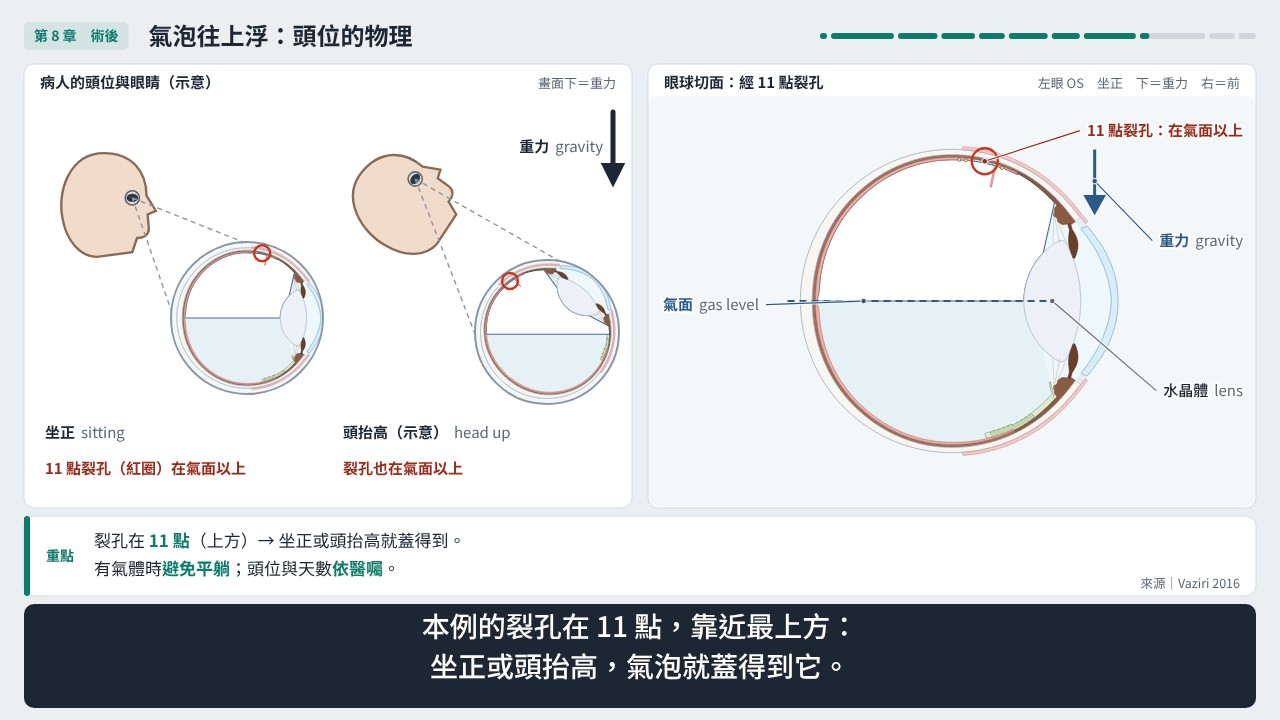
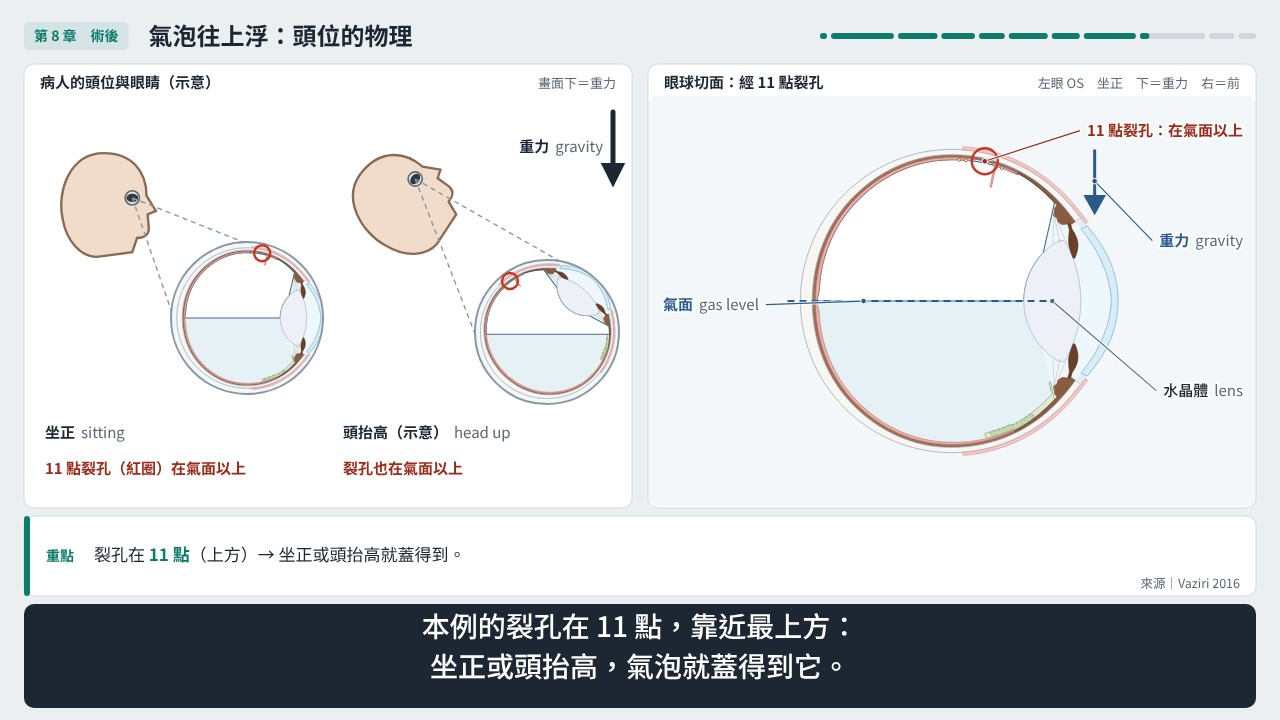
重點框的數字不再比出處早出現：第 8 章重點逐句長出來，前幾章補來源，加檢查
第 8 章有五處重點框比來源欄早一句出現，數字旁邊寫的是另一篇論文；8-1、8-3、8-4 的重點改成跟著旁白逐句長出來。8-1「頭位與天數沒有共識」原本掛 Casswell 2020（PostRD 只比 24 小時），改成 Agarwalla 2024；Liang 2023 兩個 RCT，REFS 加這兩篇。8-2 第 1 句的重點框原本是空的，補上本例的黃斑狀態；8-4 的 72.9% 改寫成「再剝離的病例裡兩個月內被診斷」，避免讀成再剝離率。數字帳本加一條：旁白的數字和出處同一句出現，重點框的數字出處不晚於重點（2 個故意改錯）；它也抓到 1-3、2-1、5-1、7-2 同樣的錯置，一起補來源。更新 2-1、8-1 兩張參考圖；文字基準下一個 commit 改。

Changed region(s): [[0.0625, 0.7333, 0.375, 0.825]]

diff --git a/videos/src/rrd-ppv-c3f8/anim/segments.js b/videos/src/rrd-ppv-c3f8/anim/segments.js
@@ -50,7 +50,7 @@ const SEGS = [
   keys: [[1, '等刀時 fovea 掉下來：<b>1.1%</b>（930 例）；平均等 1.8 天，<b>19.8%</b> 剝離變大。'],
          [3, '最危險：<b>superotemporal、bullous、接近血管弓</b>。'],
          [4, '<b>24 小時內</b>開刀，最後視力略好（證據品質低）。']],
-  src: [[1, 'Kontos 2017b'], [2, 'Callizo 2017'], [3, 'Kontos 2017b；Callizo 2017'], [4, 'Sothivannan 2022']] },
+  src: [[1, 'Kontos 2017b；Callizo 2017'], [2, 'Callizo 2017'], [3, 'Kontos 2017b；Callizo 2017'], [4, 'Sothivannan 2022']] },
 { id: '1-4', ch: 1, title: 'PVR grade B 與本例的術式', layout: 'dual',
   lines: ['PVR grade B 是中度：視網膜表面起皺、\n裂孔邊緣捲起、視網膜變硬、血管扭曲。',
           '術前 PVR 越嚴重、剝離範圍越大，\n手術越容易失敗。',
@@ -74,7 +74,7 @@ const SEGS = [
   keys: [[0, 'Trocar 在 <b>pars plana</b>：距角膜緣 <b>3 到 4 mm</b>（依水晶體狀態）；有水晶體的眼研究用 <b>4 mm</b>。'],
          [2, '華人 ora：顳側 <b>7.6</b>、鼻側 <b>7.0 mm</b> → 4 mm 在 ora 前面。'],
          [4, '先推開結膜、<b>斜插</b> → 像瓣膜的隧道，拔掉後比較不漏。']],
-  src: [[0, 'EyeWiki 2026a'], [1, 'Duker 2021'], [2, 'Li 2025'], [4, 'Warrier 2008'], [5, 'Singh 2008']] },
+  src: [[0, 'EyeWiki 2026a；Duker 2021'], [1, 'Duker 2021'], [2, 'Li 2025'], [3, 'Li 2025；Duker 2021'], [4, 'Warrier 2008'], [5, 'Singh 2008']] },
 { id: '2-2', ch: 2, title: 'Infusion：開之前先看尖端', layout: 'dual',
   lines: ['Infusion 一打開，水就從套管尖端流出；\n尖端在哪一層，水就灌進哪一層。',
           '套管常見放在 inferotemporal，器械從 superotemporal\n和 superonasal 進來；位置依主刀決定。',
@@ -142,7 +142,7 @@ const SEGS = [
   keys: [[0, '兩個原則：<b>處理所有裂孔</b>、<b>解除玻璃體拉力</b>。'],
          [1, 'Vitreous base 跨在 ora 上；裂孔多在它的<b>後緣</b>。\nHST 的瓣被玻璃體往前拉：106 個裂孔<b>前緣全有牽拉</b>。'],
          [4, '有水晶體：碰到水晶體 <b>1.2 到 1.6%</b>。']],
-  src: [[0, 'Schwartz 2008'], [1, 'Sohn 2020'], [2, 'Govetto 2024'], [3, 'Chandrakanth 2025'], [4, 'Jackson 2013']] },
+  src: [[0, 'Schwartz 2008'], [1, 'Sohn 2020；Govetto 2024'], [2, 'Govetto 2024'], [3, 'Chandrakanth 2025'], [4, 'Jackson 2013']] },
 { id: '5-2', ch: 5, title: '助手壓鞏膜', layout: 'dual',
   lines: ['有水晶體的眼，廣角系統加上助手從外面壓鞏膜，\n可能有幫助。',
           '清周邊時，常由受過訓練的助手用手壓鞏膜；\n也有主刀用 chandelier 照明自己壓。',
@@ -197,7 +197,7 @@ const SEGS = [
   keys: [[0, '純 C3F8：膨脹約 <b>4 倍</b>、3 到 4 天最大 → 混成不膨脹濃度，常用 <b>14%</b>（12 到 16%）。'],
          [2, '50 mL 針筒：抽純氣 → 排到需要的量 → 無菌空氣補到 50 mL。\n錯誤：算錯量、換供應商、從高壓鋼瓶直接抽。'],
          [5, 'C3F8 的量<b>依院內常規</b>；備好<b>和主刀確認</b>。']],
-  src: [[0, 'Vaziri 2016'], [1, 'Vaziri 2016；Brosh 2014；Foulsham 2021'], [2, 'Kanclerz 2018b'], [5, '院內常規']] },
+  src: [[0, 'Vaziri 2016；Brosh 2014；Foulsham 2021'], [1, 'Vaziri 2016；Brosh 2014；Foulsham 2021'], [2, 'Kanclerz 2018b'], [5, '院內常規']] },
 { id: '7-3', ch: 7, title: '沖洗與關傷口', layout: 'dual',
   lines: ['先完成氣液交換，再把混好的氣體沖過整個眼睛，\n換掉眼內的空氣。',
           '沖多少：實驗用 25 mL 就幾乎換完全；\n電腦模擬建議 35 mL，眼軸較長的要用兩支 50 mL。',
@@ -216,14 +216,17 @@ const SEGS = [
           '有氣體的眼，要避免平躺。',
           '頭位怎麼擺、擺幾天，沒有共識；\n依主刀的醫囑。'],
   keys: [[0, '氣體<b>浮到最高處</b>，用<b>表面張力蓋住裂孔</b>，撐到雷射疤長牢。'],
-         [2, '裂孔在 <b>11 點</b>（上方）→ 坐正或頭抬高就蓋得到。\n有氣體時<b>避免平躺</b>；頭位與天數<b>依醫囑</b>。']],
-  src: [[0, 'Vaziri 2016'], [3, 'Kanclerz 2018a'], [4, 'Casswell 2020']] },
+         [2, '裂孔在 <b>11 點</b>（上方）→ 坐正或頭抬高就蓋得到。'],
+         [3, '裂孔在 <b>11 點</b>（上方）→ 坐正或頭抬高就蓋得到。\n有氣體時<b>避免平躺</b>。'],
+         [4, '裂孔在 <b>11 點</b>（上方）→ 坐正或頭抬高就蓋得到。\n有氣體時<b>避免平躺</b>；頭位與天數<b>依醫囑</b>。']],
+  src: [[0, 'Vaziri 2016'], [3, 'Kanclerz 2018a'], [4, 'Agarwalla 2024；Liang 2023']] },
 { id: '8-2', ch: 8, title: '黃斑剝離過：術後 face-down？', layout: 'dual',
   lines: ['本例下半部的黃斑剝離過。',
           '剝離過的視網膜，術後可能往下滑；\n一個隨機試驗比較術後 24 小時的頭位：',
           'face-down 組 42% 有往下滑，\n撐住裂孔的頭位組是 56%。',
           '但兩組最後的視力相同；而且這個試驗收的是\nfovea 已經掉的病人，和本例不完全一樣。'],
-  keys: [[1, '隨機試驗：術後 24 小時 face-down，視網膜往下滑 <b>42%</b> vs <b>56%</b>；視力相同。'],
+  keys: [[0, '本例：<b>下半部黃斑剝離過</b>，fovea 還貼著。'],
+         [1, '隨機試驗：術後 24 小時 face-down，視網膜往下滑 <b>42%</b> vs <b>56%</b>；視力相同。'],
          [3, '試驗收的是 <b>fovea 已掉</b>的病人，和本例不完全一樣。']],
   src: [[1, 'Casswell 2020']] },
 { id: '8-3', ch: 8, title: '有 C3F8 時：N2O、飛機與高山', layout: 'dual',
@@ -232,9 +235,11 @@ const SEGS = [
           '所以要給病人警示手環或卡片：\n以後任何手術，先告訴麻醉科眼內有氣體。',
           '氣體完全吸收之前，不能搭飛機，也不能上高山：\n就算氣泡只剩一小部分，模擬上升時眼壓平均升高 109%。',
           '15% 的 C3F8，平均 67.7 天才完全消失；\n有晶體的眼，氣體留得更久。'],
-  keys: [[0, '<b>絕不用 N2O 麻醉</b>：氣泡變大 → CRAO；術後 37 天仍發生，風險期<b>至少 3 個月</b>。'],
+  keys: [[0, '<b>絕不用 N2O 麻醉</b>：氣泡變大 → CRAO。'],
+         [1, '<b>絕不用 N2O 麻醉</b>：氣泡變大 → CRAO；術後 37 天仍發生，風險期<b>至少 3 個月</b>。'],
          [2, '給<b>警示手環或卡片</b>。'],
-         [3, '氣體吸收前<b>不搭飛機、不上高山</b>；15% C3F8 平均 <b>67.7 天</b>消失。']],
+         [3, '氣體吸收前<b>不搭飛機、不上高山</b>。'],
+         [4, '氣體吸收前<b>不搭飛機、不上高山</b>；15% C3F8 平均 <b>67.7 天</b>消失。']],
   src: [[0, 'Hart 2002'], [1, 'Lee 2004；Silvanus 2008'], [2, 'Fu 2002'], [3, 'Houston 2012；Mills 2001'], [4, 'Kontos 2017a；Kanclerz 2018a']] },
 { id: '8-4', ch: 8, title: '術後第一週，與之後的白內障', layout: 'dual',
   lines: ['有氣體的眼，術後眼壓上升很常見：\n43% 超過 25 mmHg，其中 88% 發生在 24 小時內。',
@@ -242,9 +247,11 @@ const SEGS = [
           '也要看：傷口有沒有漏、氣泡大小、\n氣體有沒有跑進前房、視網膜有沒有貼回。',
           '再剝離多半在兩個月內：\n失敗的病例裡，72.9% 在兩個月內被診斷。',
           '有晶體的眼做完 PPV，大多會長白內障：\n英國資料一年內 50.2%、兩年內 68.7% 做了白內障手術。'],
-  keys: [[0, '眼壓：<b>43%</b> 超過 25 mmHg，<b>88%</b> 在 24 小時內；RRD 常在 8 到 12 小時 → <b>當晚到隔天都量</b>。'],
+  keys: [[0, '眼壓：<b>43%</b> 超過 25 mmHg，<b>88%</b> 在 24 小時內。'],
+         [1, '眼壓：<b>43%</b> 超過 25 mmHg，<b>88%</b> 在 24 小時內；RRD 常在 8 到 12 小時 → <b>當晚到隔天都量</b>。'],
          [2, '看：傷口漏、氣泡大小、前房有沒有氣、視網膜有沒有貼回。'],
-         [3, '再剝離：<b>72.9%</b> 在兩個月內；白內障手術：一年 50.2%、兩年 68.7%。']],
+         [3, '再剝離的病例：<b>72.9%</b> 在兩個月內被診斷。'],
+         [4, '再剝離的病例：<b>72.9%</b> 在兩個月內被診斷；白內障手術：一年 50.2%、兩年 68.7%。']],
   src: [[0, 'Chen 1997'], [1, 'Muether 2011'], [2, 'Kanclerz 2018a'], [3, 'Lee 2014'], [4, 'Jackson 2013']] },
 
 // ---------------------------------------------------------------- 9 助手清單
@@ -313,6 +320,8 @@ const REFS = [
  'Shunmugam M, et al. Air-gas exchange reevaluated: clinically important results of a computer simulation. Invest Ophthalmol Vis Sci 2011;52(11):8262-5.',
  'Woo SJ, et al. Risk factors associated with sclerotomy leakage and postoperative hypotony after 23-gauge transconjunctival sutureless vitrectomy. Retina 2009;29(4):456-63.',
  'Duval R, et al. Rate of sclerotomy suturing in 23-gauge primary vitrectomy. Retina 2014;34(4):679-83.',
+ 'Agarwalla A, et al. Evaluation of prone versus supine positioning in fresh rhegmatogenous retinal detachment treated with pars plana vitrectomy and gas. Retina 2024;44(7):1150-6.',
+ 'Liang Q, et al. A comparison of adjustable positioning and free positioning after pars plana vitrectomy for rhegmatogenous retinal detachment: a prospective randomized controlled study. Clin Ophthalmol 2023;17:3389-96.',
  'Casswell EJ, et al. Effect of face-down positioning vs support-the-break positioning after macula-involving retinal detachment repair: the PostRD randomized clinical trial. JAMA Ophthalmol 2020;138(6):634-42.',
  'Hart RH, et al. Loss of vision caused by expansion of intraocular perfluoropropane (C3F8) gas during nitrous oxide anesthesia. Am J Ophthalmol 2002;134(5):761-3.',
  'Lee EJK. Use of nitrous oxide causing severe visual loss 37 days after retinal surgery. Br J Anaesth 2004;93(3):464-6.',

diff --git a/videos/src/rrd-ppv-c3f8/check.js b/videos/src/rrd-ppv-c3f8/check.js
@@ -743,6 +743,13 @@ function ledgerChecks(ctx) {
       ok(found.has(n), `${sg.id}: ledger number ${n} is used on screen or in the narration`);
       const cited = srcs.includes(src) || ['結構', '示意', '病例'].includes(src) || texts.join('').includes(src);
       ok(cited, `${sg.id}: ledger source of ${n} (${src}) is cited in the segment`); }
+    // a key box and the source line switch together (kit.js: the last entry at or before a line). A sourced number in a narration line has its source on that
+    // line's source line; a number in a key box has had its source shown by the line the key appears (a key box stays on and gathers, so a number already
+    // sourced may stand next to a later paper) — never before it, or the viewer reads it next to another paper's name (2026-11-12: seven key boxes ran ahead)
+    const srcAt = k => { let s = ''; for (const [i, x] of (sg.src || [])) if (i <= k) s = x; return plainSrc(s); }, sourced = n => L[n] && !['結構', '示意', '病例', '院內常規'].includes(L[n]);
+    const shownBy = k => (sg.src || []).filter(x => x[0] <= k).flatMap(x => plainSrc(x[1]));
+    for (const [k, h] of (sg.keys || [])) for (const n of numbers(h)) if (sourced(n)) ok(shownBy(k).includes(L[n]), `${sg.id}: ledger source of key-box number ${n} (${L[n]}) is shown by line ${k + 1}`);
+    (sg.lines || []).forEach((t, j) => { for (const n of numbers(t)) if (sourced(n)) ok(srcAt(j).includes(L[n]), `${sg.id}: ledger source of narration number ${n} (${L[n]}) is on the source line at line ${j + 1}`); });
   }
   // every reference is cited somewhere (a reference nobody cites is a leftover)
   const allSrc = ctx.segs.flatMap(s => (s.src || []).flatMap(x => plainSrc(x[1]))).flatMap(cites);
@@ -775,6 +782,8 @@ const runAll = ctx => [...ledgerChecks(ctx), ...modelChecks(ctx)];
       ['on-screen number without a source', c => { c.screen['8-1'] = ['氣泡 60%']; }],
       ['ledger entry not used', c => { c.ledger['1-3']['99'] = 'Callizo 2017'; }],
       ['ledger source not cited in the segment', c => { c.ledger['5-2']['1.9'] = 'Jackson 2013'; }],
+      ['key-box number before its source shows', c => { c.segs.find(s => s.id === '8-4').keys[0][1] += '；RRD 常在 8 到 12 小時'; }],
+      ['narration number next to another paper', c => { const s = c.segs.find(x => x.id === '8-4'); s.src[0][1] = 'Muether 2011'; s.src[1][1] = 'Chen 1997'; }],
       ['citation not in REFS', c => { c.screen['4-2'] = ['Smith 2020']; }],
       ['source not a reference', c => { c.segs.find(s => s.id === '1-2').src[0][1] = 'Yoshida 2019'; }],
       ['two-word surname not in REFS', c => { c.segs.find(s => s.id === '1-4').src[0][1] = 'Ferro Desideri 2023'; }],

diff --git a/videos/src/rrd-ppv-c3f8/spec.md b/videos/src/rrd-ppv-c3f8/spec.md
@@ -141,4 +141,5 @@
   - 沒有改 `videos/models/`。影片視角包裝 `anim/views-posterior.js` 加第 8 章的狀態與常數（`ST.sit81`＝`ST.sit7`、`up81`、`sup81`、`fd82`、`stb82`、`st81`、`n2oStep`、`GAS83`／`shrink83`、`PROS82`、`DISP82`、`MILLS`、`TL83`／`x83`、`CHEN`、`TL84`／`x84`、`LEE14`、`JACK`、`barPx`、`iopPx`）與任意視窗的頭位切面 `headZ`。頭抬高用模型 `gravity` 已有的自訂重力 `head.g`（模型卡沒寫這個欄位）。
   - 檢查：`check.js` 加 12 條旁白↔模型檢查（M49 第 8 章 14 張頭位圖的重力和寫在檢查裡的一致、重力朝下、液面水平、氣體在最高處、頭的圖示跟著轉；M50 坐正和 7-1 小圖同一狀態、坐正與頭抬高時整個 11 點裂孔都在氣面以上、畫面沒有角度；M51 坐正時裂孔前面都是氣體、放大視窗含裂孔、第 7–8 章沒有用「頂」、「推」只出現在「不是…推回去」；M52 仰躺時氣體貼著水晶體後面 100%、坐正 41%；M53 8-1 畫面除了 11 沒有數字、沒有小時數或天數，8-2 的小時只有試驗的 24；M54 臉朝下重力朝前、氣泡在黃斑上、液體在水晶體後面，兩張圖同一個氣泡量、11 點裂孔都在氣面以上；M55 42%／56% 長條同一比例；M56 視網膜往 6 點方向滑、不寫 mm；M57 時間軸上 37 天、67.7 天、3 個月的位置成比例且順序對；M58 N2O 時氣泡逐步變大、畫面沒有倍數與 mmHg、沒有「以下可以飛」，上升長條 1 比 2.09；M59 43%／88% 長條與 8–12 小時的帶子在 24 小時軸上的位置成比例；M60 72.9% 寫成失敗病例裡的比例、不是再剝離率，白內障 50.2%／68.7% 與族群卡片），`--selftest` 加 12 個故意改錯，每個都抓到指定的檢查；數字帳本 8-2 加鐘點與方位（結構、病例）與 1 mm 比例尺。參考圖 4 張（8-1 第 3 句、8-2 第 3 句、8-3 第 5 句、8-4 第 2 句）。check-all 全部 PASS。
   - 示意（出片前的總覽要列出）：所有頭位圖的氣泡量（8-1 一半、8-2 85%、8-3 30% 到 75% 與變小的三格）、頭的圖示（不按比例）與放大的眼睛、頭抬高的角度（沒有出處、不寫）、氣體貼在裂孔上的淡藍色帶與疤的顏色、仰躺時只畫氣體貼著水晶體、8-2 視網膜往下滑的幅度、N2O 的箭頭與眼壓錶、警示卡的內容與樣式、飛機與高山圖示、不搭飛機帶子的漸淡末端、四件事的圖示、水晶體變混濁的畫法。
-  - 待確認（只回報，沒改文字）：8-1 第 5 句「頭位怎麼擺、擺幾天，沒有共識」的來源欄是 Casswell 2020（PostRD 只比較 24 小時的兩種頭位）；`research/gas-postop.md` 5c 支持「沒有共識」的是 Otsuka 2018、Agarwalla 2024、Liang 2023，不在 REFS。重點框比來源欄早一句出現的地方：8-1 第 3 句的重點已有「避免平躺；依醫囑」（來源欄仍是 Vaziri 2016）、8-3 第 1 句的重點已有「37 天、至少 3 個月」（來源欄是 Hart 2002）、第 4 句的重點已有「67.7 天」（來源欄是 Houston 2012；Mills 2001）、8-4 第 1 句的重點已有「8 到 12 小時」（來源欄是 Chen 1997）、第 4 句的重點已有白內障的 50.2%、68.7%（來源欄是 Lee 2014）。
+  - 已處理（見下一條）：8-1 第 5 句「頭位怎麼擺、擺幾天，沒有共識」的來源欄是 Casswell 2020（PostRD 只比較 24 小時的兩種頭位）；`research/gas-postop.md` 5c 支持「沒有共識」的是 Otsuka 2018、Agarwalla 2024、Liang 2023，不在 REFS。重點框比來源欄早一句出現的地方：8-1 第 3 句的重點已有「避免平躺；依醫囑」（來源欄仍是 Vaziri 2016）、8-3 第 1 句的重點已有「37 天、至少 3 個月」（來源欄是 Hart 2002）、第 4 句的重點已有「67.7 天」（來源欄是 Houston 2012；Mills 2001）、8-4 第 1 句的重點已有「8 到 12 小時」（來源欄是 Chen 1997）、第 4 句的重點已有白內障的 50.2%、68.7%（來源欄是 Lee 2014）。
+  - 已改（2026-11-12 主對話）：8-1 第 5 句的來源由 Casswell 2020 改成 Agarwalla 2024；Liang 2023（兩個 RCT：仰躺與趴著、可調整與自由頭位的成功率都相同，`research/gas-postop.md` 5c），REFS 加這兩篇，排在 Casswell 2020 之前。8-1、8-3、8-4 的重點改成跟著旁白逐句長出來（每句只加那一句講到的內容），數字不再比出處早出現；8-2 第 1 句補重點「本例：下半部黃斑剝離過，fovea 還貼著」（原本是空的重點框）；8-4 的「再剝離：72.9% 在兩個月內」改成「再剝離的病例：72.9% 在兩個月內被診斷」，避免讀成再剝離率。`check.js` 的數字帳本加一條：旁白裡有出處的數字，那一句的來源欄要有它的出處；重點框裡的數字，出處要在重點出現的那一句或更早已經出現（2 個故意改錯）。這條也抓到前幾章同樣的錯置，一起補來源：1-3 第 2 句補 Callizo 2017、2-1 第 1 句補 Duker 2021 與第 4 句補「Li 2025；Duker 2021」、5-1 第 2 句補 Govetto 2024、7-2 第 1 句補 Brosh 2014；Foulsham 2021。
